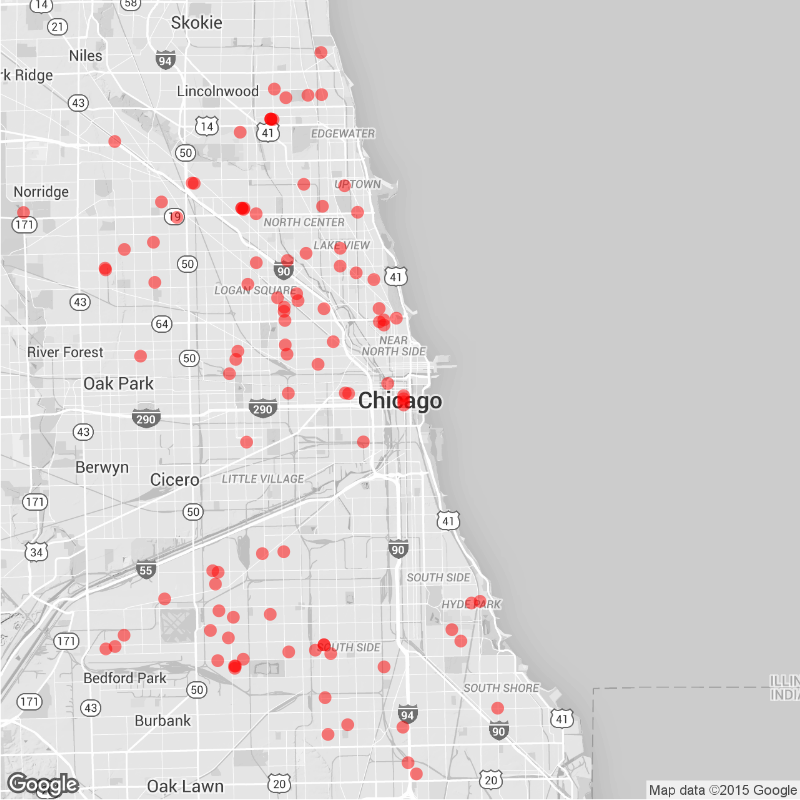
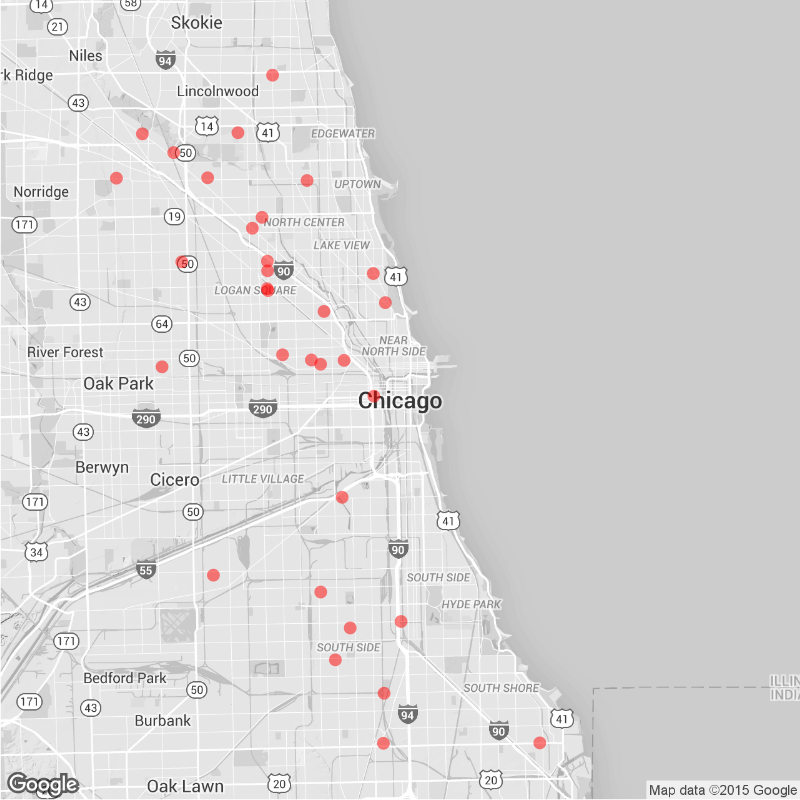
Daily Maps

diff --git a/daily.md b/daily.md
@@ -15,22 +15,22 @@ tags: Chicago NYC weekly daily rats
 
 ### Daily
 
-Yesterday (October 30), there were 105 calls to Chicago's 311 line about rats.
+Yesterday (October 31), there were 33 calls to Chicago's 311 line about rats.
 ![Chicago rat calls to 311 weekly map]({{ site.cityimages }}/daily/Chicago_Rat_Map_Daily.png)
 
 ### Weekly
-Between October 24 and October 30, there were 744 calls to Chicago's 311 line about rats. The average number of weekly calls for this time of year is 513.
+Between October 25 and October 31, there were 731 calls to Chicago's 311 line about rats. The average number of weekly calls for this time of year is 513.
 ![Chicago rat calls to 311 weekly map]({{ site.cityimages }}/daily/Chicago_Rat_Map_Weekly.png)
 ***
 # New York City <a id="nyc"><a>
 
 ### Daily
 
-Yesterday (October 30), there were 0 calls to New York City's 311 line about rats.
+Yesterday (October 31), there were 0 calls to New York City's 311 line about rats.
 ![NYC rat calls to 311 weekly map]({{ site.cityimages }}/daily/NYC_Rat_Map_Daily.png)
 
 ### Weekly
-Between October 24 and October 30, there were 0 calls to New York City's 311 line about rats. The average number of weekly calls for this time of year is 186.
+Between October 25 and October 31, there were 0 calls to New York City's 311 line about rats. The average number of weekly calls for this time of year is 186.
 ![NYC rat calls to 311 weekly map]({{ site.cityimages }}/daily/NYC_Rat_Map_Weekly.png)
 
 Each red dot represents one call about a rat seen in that location. The dots are transparent, so multiple calls from one location will be seen as a solid dot. The usual caveats apply: more calls do not necessarily mean that there are more rats in that location than other parts of the city. A cluster of dots could indicate that one resident is unusually vocal about rodents in his or her neighborhood. Also, more densely populated neighborhoods tend to make more calls to 311.
